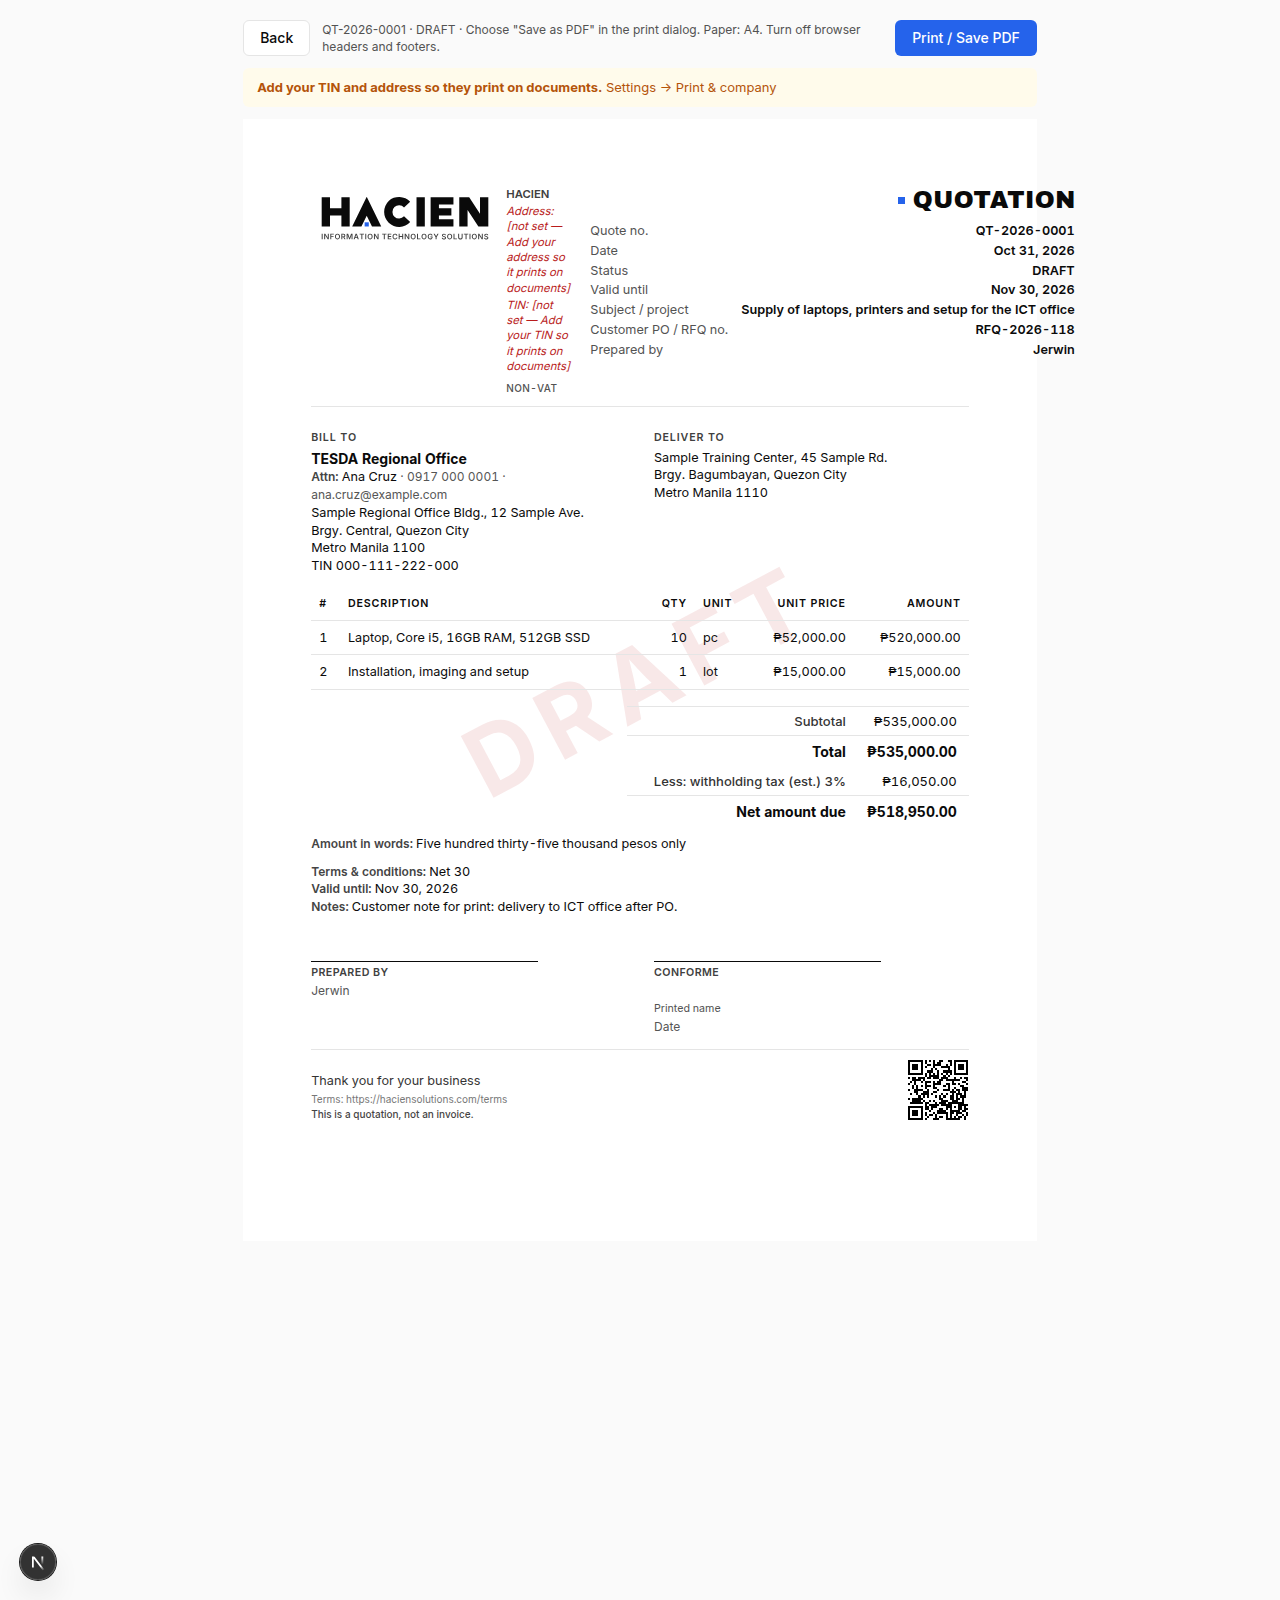
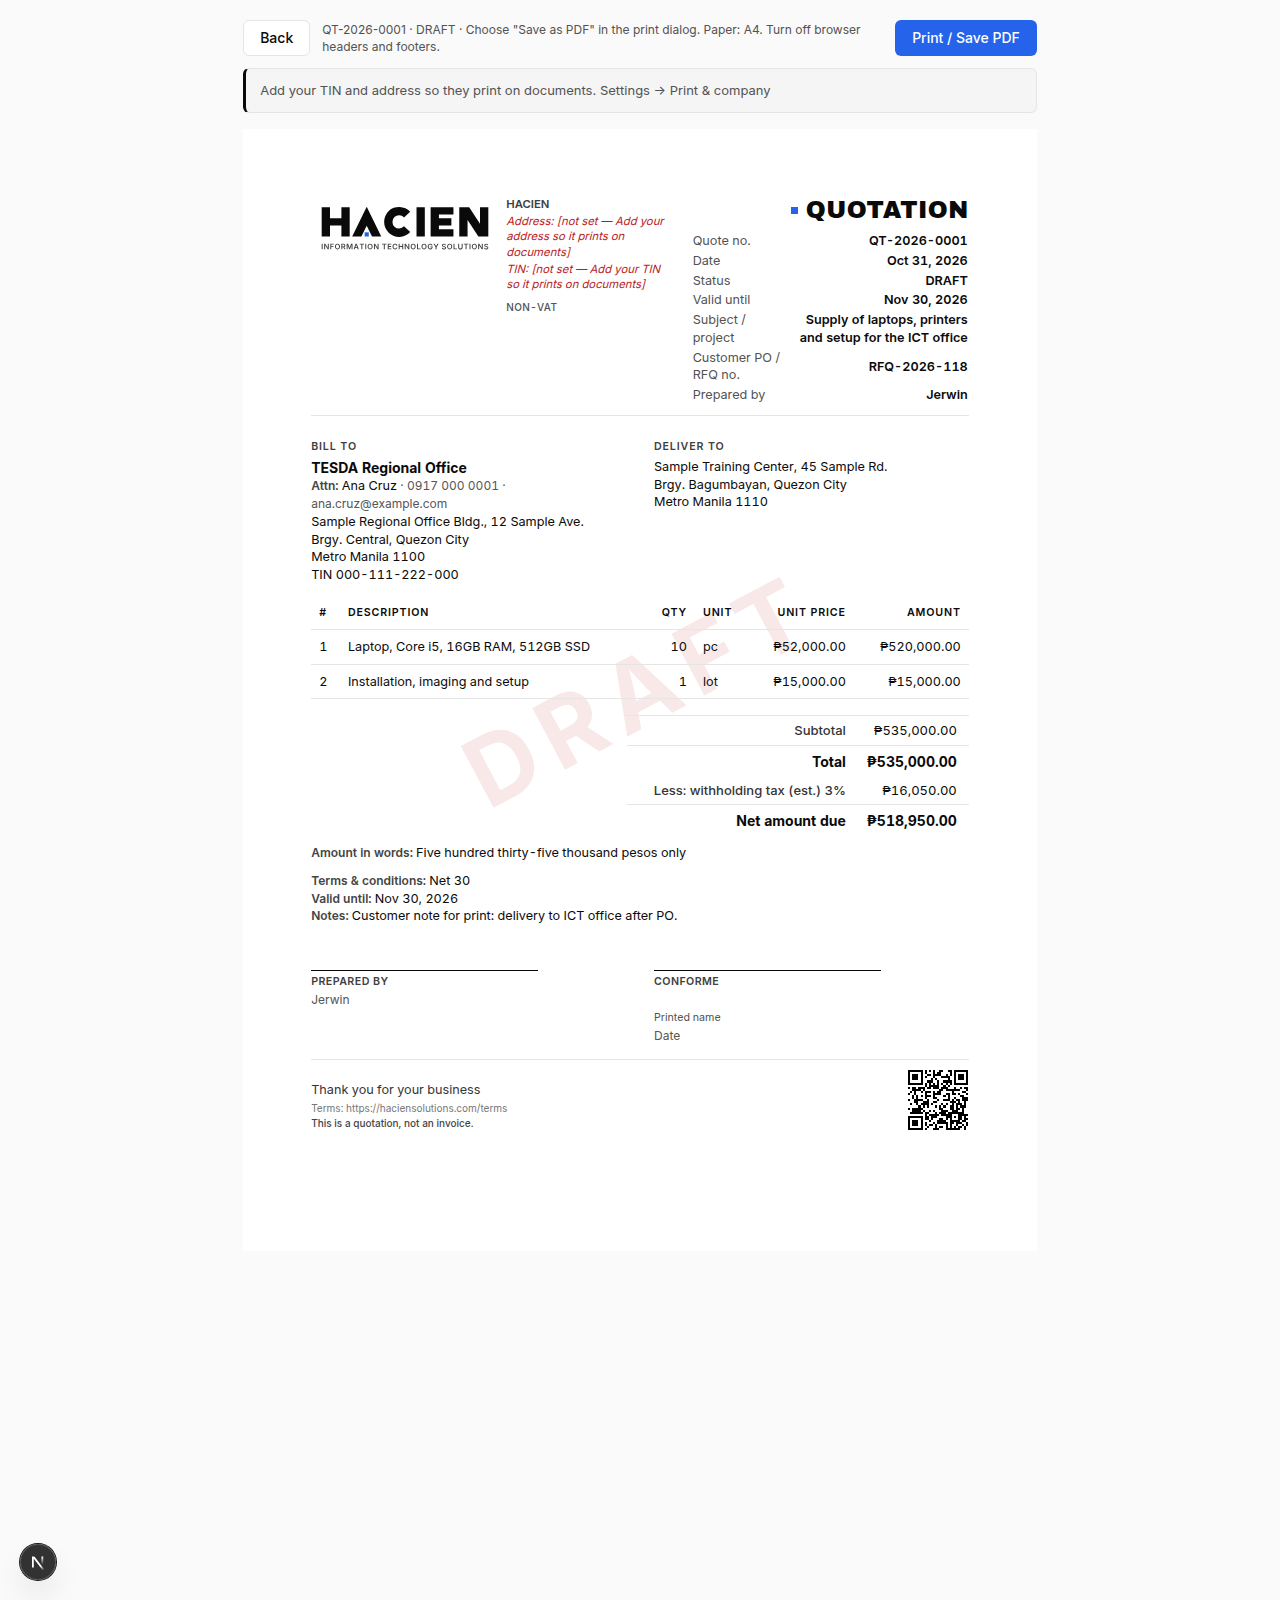
fix(quotes): tighten Pass 2 polish — tabs fade, WH col, drawer widths
Stronger mobile tab fade, slightly wider WH/actions, description grow pad,
equal drawer pair widths, and print title block alignment with meta.

diff --git a/src/app/globals.css b/src/app/globals.css
@@ -2839,17 +2839,22 @@ pre.json {
     min-width: 88px;
   }
   .edit-table.items-edit .col-money {
-    width: 80px;
-    min-width: 80px;
+    width: 76px;
+    min-width: 76px;
   }
   .edit-table.items-edit .col-wh {
-    width: 56px;
-    min-width: 56px;
+    width: 64px;
+    min-width: 64px;
+  }
+  .edit-table.items-edit table.list th.col-wh {
+    white-space: nowrap;
+    letter-spacing: 0;
+    font-size: 11px;
   }
   .edit-table.items-edit .col-actions,
   .edit-table.items-edit td.line-actions {
-    width: 68px;
-    min-width: 68px;
+    width: 72px;
+    min-width: 72px;
   }
 }
 .btn-link.danger {
@@ -3472,9 +3477,9 @@ button.contact-card-add {
 }
 .pp-title-block {
   text-align: right;
-  flex: 0 1 auto;
+  flex: 0 0 auto;
   min-width: 0;
-  max-width: 42%;
+  max-width: 40%;
 }
 .pp-title-block h1 {
   margin: 0 0 8px;
@@ -3491,6 +3496,11 @@ button.contact-card-add {
   gap: 8px;
   max-width: 100%;
   box-sizing: border-box;
+}
+.pp-title-block .pp-meta {
+  margin-left: auto;
+  width: max-content;
+  max-width: 100%;
 }
 /* Pixel Blue square — the only blue on the page besides the logo. */
 .pp-title-pixel {
@@ -4971,14 +4981,20 @@ button.contact-card-add {
   top: 0;
   right: 0;
   bottom: 0;
-  width: 28px;
+  width: 36px;
   pointer-events: none;
-  background: linear-gradient(to right, transparent, #fff);
+  background: linear-gradient(to right, rgba(255, 255, 255, 0), #fff 55%, #fff);
   opacity: 0;
+  z-index: 2;
 }
 @media (max-width: 640px) {
   .quote-tabs-wrap::after {
     opacity: 1;
+  }
+  .quote-tab {
+    padding-left: 8px;
+    padding-right: 8px;
+    font-size: 13px;
   }
 }
 .quote-tab {
@@ -5160,6 +5176,7 @@ button.contact-card-add {
 .quote-drawer-body .field textarea {
   width: 100%;
   max-width: 100%;
+  min-width: 0;
   box-sizing: border-box;
 }
 .quote-drawer-row {
@@ -5168,9 +5185,14 @@ button.contact-card-add {
   gap: 12px;
   width: 100%;
   box-sizing: border-box;
+  align-items: start;
 }
 .quote-drawer-row > .field {
   min-width: 0;
+  max-width: 100%;
+}
+.quote-drawer-row > .field select {
+  max-width: 100%;
 }
 .quote-drawer-foot {
   display: flex;

diff --git a/src/components/docs/QuoteEditor.tsx b/src/components/docs/QuoteEditor.tsx
@@ -103,7 +103,7 @@ function safeLine(i: EditorItem) {
 function growDesc(el: HTMLTextAreaElement | null) {
   if (!el) return;
   el.style.height = "0px";
-  el.style.height = `${Math.max(el.scrollHeight, 36)}px`;
+  el.style.height = `${Math.max(el.scrollHeight + 2, 36)}px`;
 }
 
 function DescTextarea({
